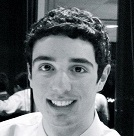
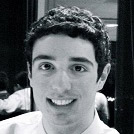
resized member pics

diff --git a/members/index.html b/members/index.html
@@ -30,7 +30,6 @@ title:
 <h1>Previous PhD Students</h1>
 <div class="row">
 {% for member in alumni %}
-  {% assign affiliation = site.data.affiliations[member.affiliation] %}
 
   <div class="member-badge col-md-2 col-sm-3 col-xs-4">
     <div class="image">{% if member.website != nil %}<a href="{{ member.website }}">{% endif %}<img src="{{site.url}}{{member.image}}"/>{% if member.website != nil %}</a>{% endif %}</div>

diff --git a/_sass/_members.scss b/_sass/_members.scss
@@ -1,5 +1,10 @@
 .member-badge {
   display: block;
+  .image {
+    img {
+      width:100%;
+    }
+  }
   .details {
     height: 150px;
     font-size: 10pt;
